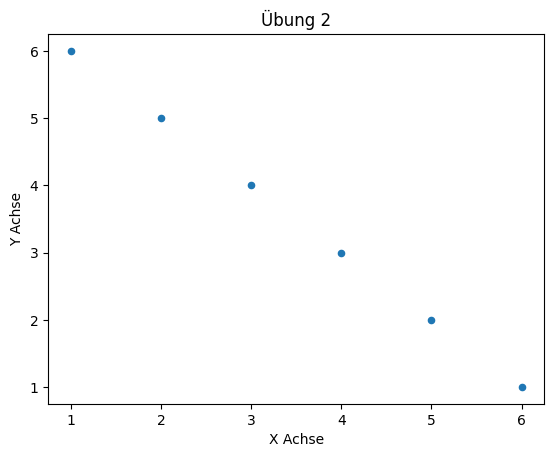
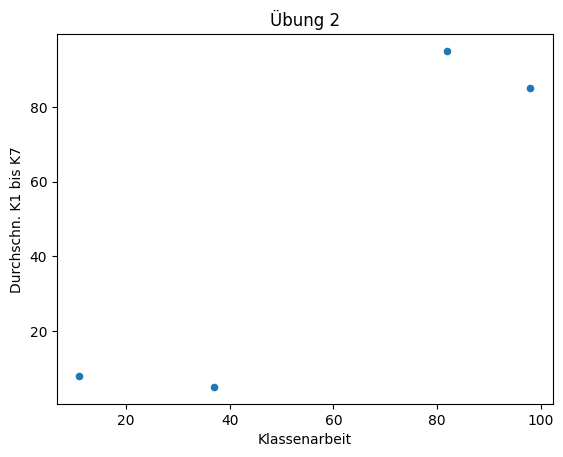
Besserer Aufgabe 5

diff --git a/neuronalesNetzwerk/ocr/Kennzeichenerkennung.md b/neuronalesNetzwerk/ocr/Kennzeichenerkennung.md
@@ -216,9 +216,9 @@ Wenn alle Bibliotheken korrekt installiert wurden müsste folgende Ausgabe auf d
 Überprüfen Sie beide Ansätze mit weiteren Fotos von parkenden Autos und bewerten Sie beide Ansätze:
 
 - Überprüfen Sie die Funktionsweise des Prototyps mit Testdaten und bewerten Sie die Genauigkeit der Kennzeichenerkennung
- - Welchen Ansatz würden Sie weiter verfolgen und warum?
- - Wie könnte eine weitere Verarbeitung der Daten erfolgen?
- - Welche weiteren Arbeitsschritte werden notwendig?
+- Welchen Ansatz würden Sie weiter verfolgen und warum?
+- Wie könnte eine weitere Verarbeitung der Daten erfolgen?
+- Welche weiteren Arbeitsschritte werden notwendig?
 
  > Ein Kollege beobachtet ihr Vorgehen und schlägt vor doch das LLM (Large Language Model) ChatGPT für die Erkennung des Kennzeichens zu nutzen. Wie könnte eine weitere Verarbeitung der Daten aussehen? Welche Vor- bzw. Nachteile könnte der Einsatz von ChatGPT zur Kennzeichenerkennung mit sich bringen?
 

diff --git a/docs/Dateien_als_Datenquelle.md b/docs/Dateien_als_Datenquelle.md
@@ -231,11 +231,11 @@ Es stellt dich die Frage, ob Schüler die im arithmetischen Mittel in den Kapite
 
 import pandas as pd
 
-data = pd.DataFrame({"x":[1,2,3,4,5,6],"y":[6,5,4,3,2,1]})
+data = pd.DataFrame({"x": [11, 37, 98, 82], "y": [8, 5, 85, 95]})
 
-pltimage = data.plot.scatter(x="x",y="y")
-pltimage.set_xlabel("X Achse")
-pltimage.set_ylabel("Y Achse")
+pltimage = data.plot.scatter(x="x", y="y")
+pltimage.set_xlabel("Klassenarbeit")
+pltimage.set_ylabel("Durchschn. K1 bis K7")
 pltimage.set_title("Übung 2")
 
 ```
